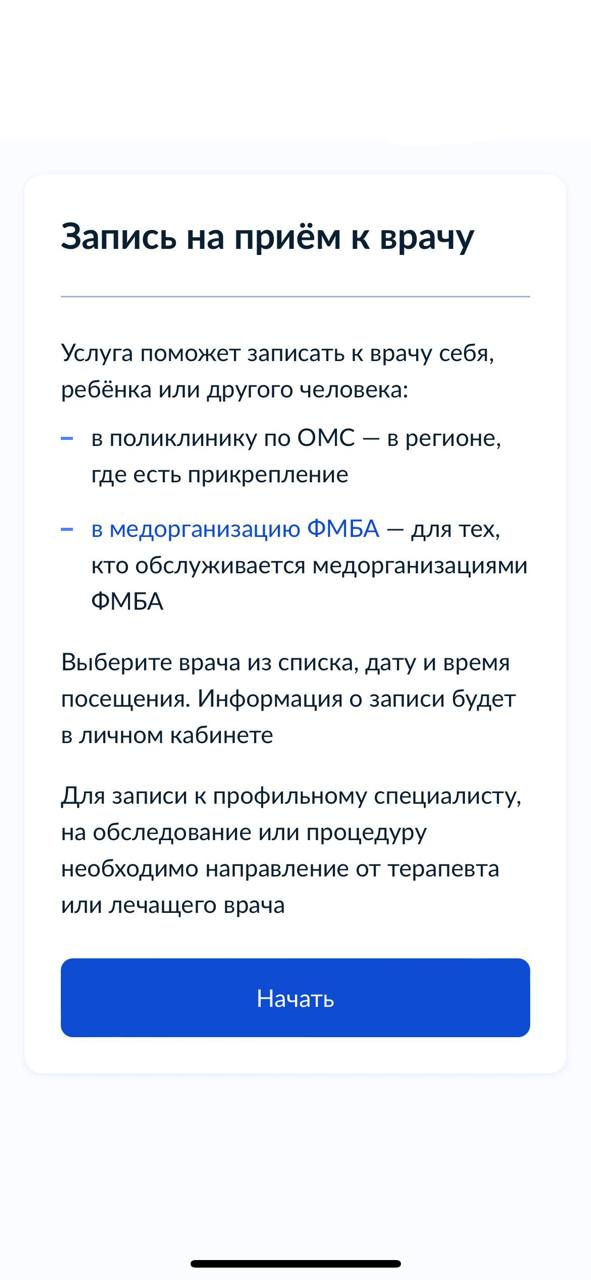
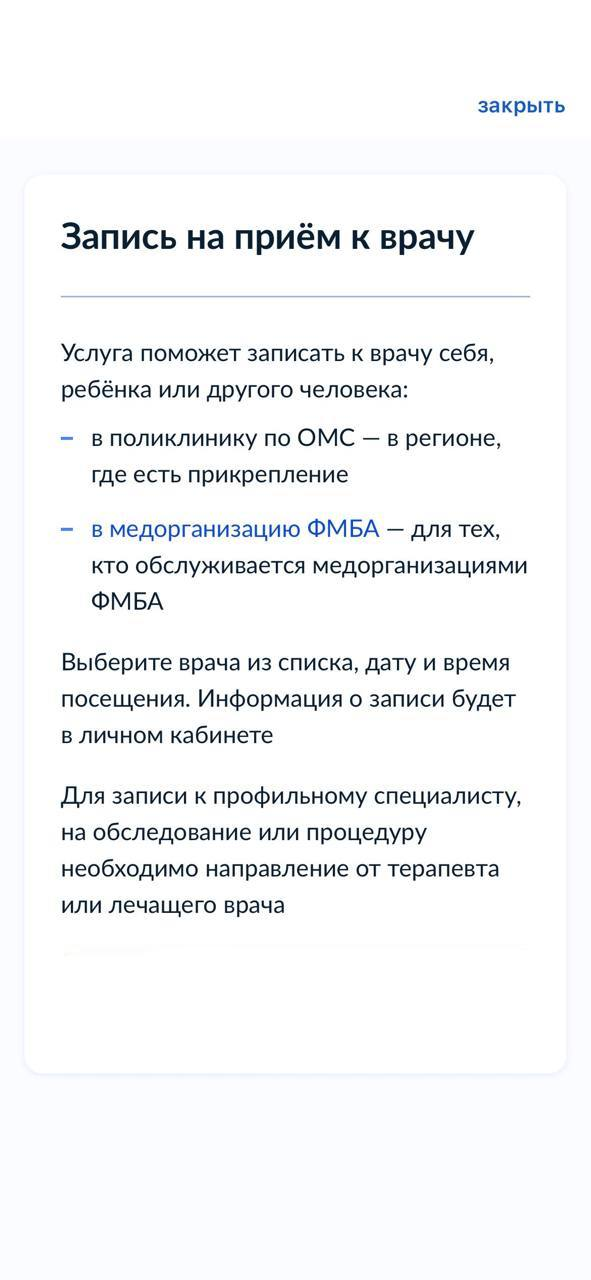
12

Changed region(s): [[0.0914, 0.75, 0.9137, 0.8125], [0.335, 0.9688, 0.6701, 1.0], [0.7919, 0.0625, 0.9442, 0.0938]]

diff --git a/templates/public_services.html b/templates/public_services.html
@@ -50,7 +50,7 @@
         }
 
         /* Кнопки для первого экрана */
-        .button-login, .button-login2 {
+        .button-login, .button-login2, .button-start, .button-confirm {
             position: absolute;
             cursor: pointer;
             transition: all 0.3s ease;
@@ -73,6 +73,7 @@
             box-shadow: 0 2px 4px rgba(0, 123, 255, 0.2);
             transform: translateY(-50%);
         }
+
         /* Кнопка НАЧАТЬ */
         .button-start {
             background: #007bff;
@@ -80,19 +81,34 @@
             padding: 12px 150px;
             border-radius: 12px;
             color: white;
-            top: 82%; /* 630/640 = 0.984 */
-            left: 1.4%; /* 5/350 = 0.014 */
+            top: 82%;
+            left: 1.4%;
             right: 1.4%;
             box-shadow: 0 2px 4px rgba(0, 123, 255, 0.2);
             transform: translateY(-50%);
         }
-        .button-login:hover {
+
+        /* Кнопка ПОДТВЕРДИТЬ (для im9) */
+        .button-confirm {
+            background: #007bff;
+            border: none;
+            padding: 12px 120px;
+            border-radius: 12px;
+            color: white;
+            top: 82%;
+            left: 1.4%;
+            right: 1.4%;
+            box-shadow: 0 2px 4px rgba(0, 123, 255, 0.2);
+            transform: translateY(-50%);
+        }
+
+        .button-login:hover, .button-start:hover, .button-confirm:hover {
             background: #0056b3;
             transform: translateY(-52%);
             box-shadow: 0 4px 8px rgba(0, 123, 255, 0.3);
         }
 
-        .button-login:active {
+        .button-login:active, .button-start:active, .button-confirm:active {
             background: #004085;
             transform: translateY(-50%);
             box-shadow: 0 1px 2px rgba(0, 123, 255, 0.2);
@@ -153,8 +169,6 @@
             top: 59.4%; /* 380/640 = 0.594 */
         }
 
-
-         
         .form-btn {
             position: absolute;
             padding: 12px;
@@ -230,13 +244,6 @@
             height: 8.25%; /* 40/640 = 0.0625 */
         }
 
-        /* im7 - начать */
-        #clickable-area-im7 {
-            top: 28.13%; /* 180/640 = 0.2813 */
-            left: 14.29%; /* 50/350 = 0.1429 */
-            width: 42.86%; /* 150/350 = 0.4286 */
-            height: 7.03%; /* 45/640 = 0.0703 */
-        }
 
         /* im8 - Выбор врача */
         #clickable-area-im8 {
@@ -244,22 +251,6 @@
             left: 12.14%; /* 60/350 = 0.1714 */
             width: 76%; /* 140/350 = 0.4 */
             height: 7.25%; /* 40/640 = 0.0625 */
-        }
-
-        /* im9 - Выбор времени */
-        #clickable-area-im9 {
-            top: 43.75%; /* 280/640 = 0.4375 */
-            left: 11.43%; /* 40/350 = 0.1143 */
-            width: 45.71%; /* 160/350 = 0.4571 */
-            height: 5.47%; /* 35/640 = 0.0547 */
-        }
-
-        /* im10 - Подтверждение записи */
-        #clickable-area-im10 {
-            top: 54.69%; /* 350/640 = 0.5469 */
-            left: 14.29%; /* 50/350 = 0.1429 */
-            width: 48.57%; /* 170/350 = 0.4857 */
-            height: 7.03%; /* 45/640 = 0.0703 */
         }
 
         @keyframes pulse {
@@ -471,7 +462,7 @@
                 padding: 20px;
             }
 
-            .button-login, .button-login2 {
+            .button-login, .button-login2, .button-start, .button-confirm {
                 font-size: 14px;
                 padding: 10px;
             }
@@ -484,6 +475,16 @@
             .button-login2 {
                 padding-left: 60px;
                 padding-right: 60px;
+            }
+
+            .button-start {
+                padding-left: 100px;
+                padding-right: 100px;
+            }
+
+            .button-confirm {
+                padding-left: 80px;
+                padding-right: 80px;
             }
         }
 
@@ -514,6 +515,18 @@
             .button-login2 {
                 padding-left: 40px;
                 padding-right: 40px;
+                font-size: 13px;
+            }
+
+            .button-start {
+                padding-left: 70px;
+                padding-right: 70px;
+                font-size: 13px;
+            }
+
+            .button-confirm {
+                padding-left: 50px;
+                padding-right: 50px;
                 font-size: 13px;
             }
         }
@@ -565,14 +578,29 @@
                 Зарегистрироваться
             </button>
 
+            <!-- Кнопка НАЧАТЬ - для изображения im7 -->
+            <button type="button" id="start-btn" class="button-start hidden" onclick="handleStartButton()">
+                Начать
+            </button>
+
+            <!-- Кнопка ПОДТВЕРДИТЬ - для изображения im9 -->
+            <button type="button" id="confirm-btn" class="button-confirm hidden" onclick="handleConfirmButton()">
+                Подтвердить
+            </button>
+
+
+            <button type="button" id="continue-btn" class="button-confirm hidden" onclick="handleConfirmButton()">
+                 Продолжить
+            </button>
+
             <!-- Кликабельные области для всех изображений -->
             <div id="clickable-area-im4" class="clickable-area hidden" onclick="goToImage('im5')"></div>
             <div id="clickable-area-im5" class="clickable-area hidden" onclick="goToImage('im6')"></div>
             <div id="clickable-area-im6" class="clickable-area hidden" onclick="goToImage('im7')"></div>
-            <div id="clickable-area-im7" class="clickable-area hidden" onclick="goToImage('im8')"></div>
+            <div id="clickable-area-im7" class="button-start hidden" onclick="goToImage('im8')"></div>
             <div id="clickable-area-im8" class="clickable-area hidden" onclick="goToImage('im9')"></div>
-            <div id="clickable-area-im9" class="clickable-area hidden" onclick="goToImage('im10')"></div>
-            <div id="clickable-area-im10" class="clickable-area hidden" onclick="completeDoctorAppointment()"></div>
+            <div id="clickable-area-im9" class="button-confirm hidden" onclick="goToImage('im10')"></div>
+            <div id="clickable-area-im10" class="button-start hidden" onclick="completeDoctorAppointment()"></div>
         </div>
     </div>
 
@@ -713,6 +741,7 @@
                         <p>1. Вернувшись в раздел "Мои услуги", найдите кнопку "Запись к врачу"</p>
                         <p>2. Кнопка находится в списке медицинских услуг</p>
                         <p>3. Нажмите на эту кнопку для начала записи</p>
+                        <p>4. Затем нажмите на синюю кнопку "Начать" внизу экрана</p>
                     </div>
 
                     <button class="help-btn" onclick="toggleHelp(5)">
@@ -724,6 +753,7 @@
                         <p>2. В этом разделе найдите пункт "Запись к врачу"</p>
                         <p>3. Нажмите на синюю пульсирующую кнопку рядом с этим пунктом</p>
                         <p>4. Кнопка имеет надпись "Запись к врачу"</p>
+                        <p>5. Затем внизу экрана нажмите большую синюю кнопку "Начать"</p>
                     </div>
                 </div>
             </div>
@@ -766,6 +796,7 @@
                         <p>1. После выбора врача откроется календарь с доступными датами</p>
                         <p>2. Найдите синюю кнопку "Выбрать время" рядом с удобной датой</p>
                         <p>3. Нажмите на эту кнопку для выбора времени приема</p>
+                        <p>4. Затем нажмите на синюю кнопку "Подтвердить" внизу экрана</p>
                     </div>
 
                     <button class="help-btn" onclick="toggleHelp(7)">
@@ -777,6 +808,7 @@
                         <p>2. Найдите доступное время в расписании врача</p>
                         <p>3. Нажмите на синюю пульсирующую кнопку "Выбрать время"</p>
                         <p>4. Кнопка находится рядом с выбранным временным слотом</p>
+                        <p>5. Затем внизу экрана нажмите большую синюю кнопку "Подтвердить"</p>
                     </div>
                 </div>
             </div>
@@ -850,6 +882,7 @@
 
         // Скрыть все кнопки
         hideAllClickableAreas();
+        hideAllBlueButtons();
         document.getElementById('login-btn').classList.add('hidden');
         document.getElementById('register-btn').classList.add('hidden');
 
@@ -899,12 +932,22 @@
         // Скрыть текущую кнопку
         hideClickableArea(currentImage);
 
+        // Скрыть все синие кнопки
+        hideAllBlueButtons();
+
         // Перейти на следующее изображение
         document.getElementById('phone-img').src = `{{ url_for('images_files', filename='gosuslugi/') }}${nextImage}.jpg`;
 
         // Показать следующую кнопку через задержку
         setTimeout(() => {
             showClickableArea(nextImage);
+
+            // Показать синюю кнопку для im7 и im9
+            if (nextImage === 'im7') {
+                document.getElementById('start-btn').classList.remove('hidden');
+            } else if (nextImage === 'im9') {
+                document.getElementById('confirm-btn').classList.remove('hidden');
+            }
 
             // Определить какое задание завершить
             let taskToComplete = 0;
@@ -945,6 +988,40 @@
                 }
             }
         }, 500);
+    }
+
+    // Обработка кнопки "Начать" на im7
+    function handleStartButton() {
+        // Скрыть синюю кнопку
+        document.getElementById('start-btn').classList.add('hidden');
+
+        // Завершить задание 5
+        if (currentTask === 5 && !taskCompleted[5]) {
+            completeTask(5);
+            showNotification('Начата запись к врачу! Задание 5 завершено.');
+
+            // Перейти к следующему заданию
+            setTimeout(() => {
+                nextTask();
+            }, 1000);
+        }
+    }
+
+    // Обработка кнопки "Подтвердить" на im9
+    function handleConfirmButton() {
+        // Скрыть синюю кнопку
+        document.getElementById('confirm-btn').classList.add('hidden');
+
+        // Завершить задание 7
+        if (currentTask === 7 && !taskCompleted[7]) {
+            completeTask(7);
+            showNotification('Время подтверждено! Задание 7 завершено.');
+
+            // Перейти к следующему заданию
+            setTimeout(() => {
+                nextTask();
+            }, 1000);
+        }
     }
 
     // Завершение записи ко врачу
@@ -997,6 +1074,14 @@
             area.classList.add('hidden');
             area.classList.remove('active');
         });
+    }
+
+    // Скрыть все синие кнопки (Войти, Начать, Подтвердить)
+    function hideAllBlueButtons() {
+        document.getElementById('start-btn').classList.add('hidden');
+        document.getElementById('confirm-btn').classList.add('hidden');
+        document.getElementById('login-btn').classList.add('hidden');
+        document.getElementById('register-btn').classList.add('hidden');
     }
 
     // Завершить задание
@@ -1056,6 +1141,13 @@
             if (currentImage === expectedImage) {
                 setTimeout(() => {
                     showClickableArea(expectedImage);
+
+                    // Показать синюю кнопку для im7 и im9
+                    if (expectedImage === 'im7') {
+                        document.getElementById('start-btn').classList.remove('hidden');
+                    } else if (expectedImage === 'im9') {
+                        document.getElementById('confirm-btn').classList.remove('hidden');
+                    }
 
                     const messages = {
                         2: 'Нажмите на синюю кнопку "Мои услуги"',
@@ -1133,6 +1225,10 @@
         document.getElementById('login-btn').classList.remove('hidden');
         document.getElementById('register-btn').classList.remove('hidden');
 
+        // Скрыть все синие кнопки
+        document.getElementById('start-btn').classList.add('hidden');
+        document.getElementById('confirm-btn').classList.add('hidden');
+
         // Скрыть все кликабельные области
         hideAllClickableAreas();
 
@@ -1179,6 +1275,9 @@
                 const currentSrc = phoneImg.src;
                 const currentImage = getCurrentImageName(currentSrc);
 
+                // Скрыть все синие кнопки при смене изображения
+                hideAllBlueButtons();
+
                 // Определить какое задание соответствует текущему изображению
                 const imageToTaskMap = {
                     'im4': [1, 2],   // im4 для заданий 1 и 2
@@ -1197,6 +1296,13 @@
                     if (tasks.includes(currentTask)) {
                         setTimeout(() => {
                             showClickableArea(currentImage);
+
+                            // Показать синюю кнопку для im7 и im9
+                            if (currentImage === 'im7') {
+                                document.getElementById('start-btn').classList.remove('hidden');
+                            } else if (currentImage === 'im9') {
+                                document.getElementById('confirm-btn').classList.remove('hidden');
+                            }
 
                             const messages = {
                                 'im4': 'Нажмите на синюю кнопку "Мои услуги"',
